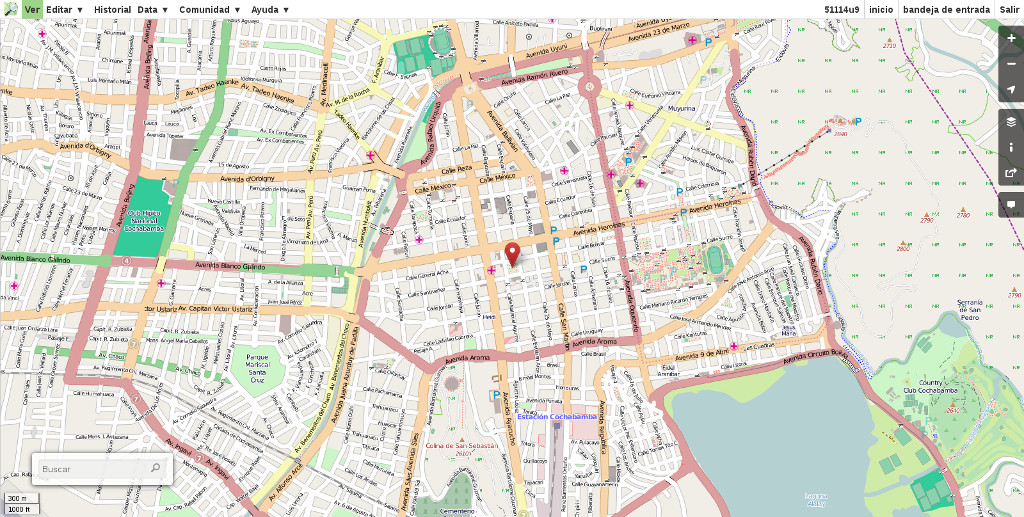
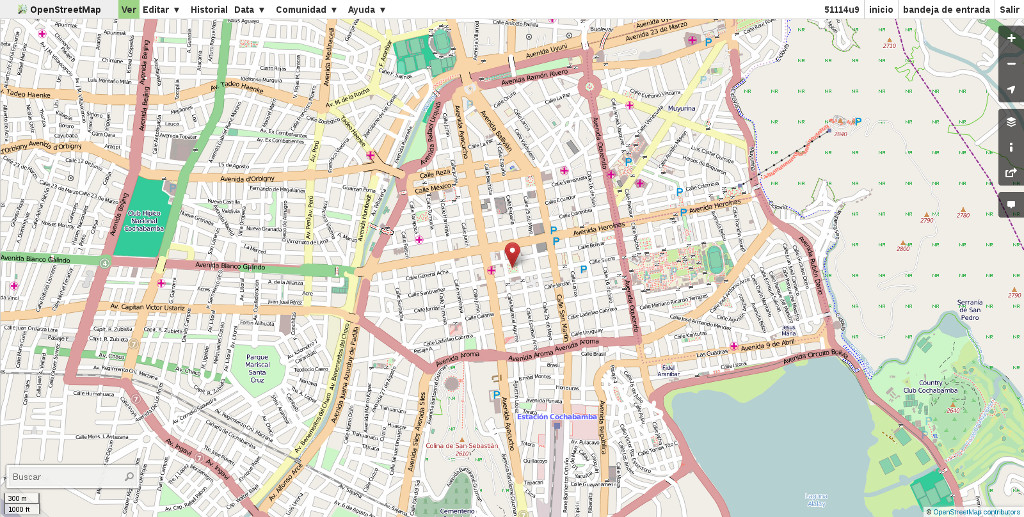
same top bar for all pages, comes back the underline on links, floating search panel only displayed on the homepage, and much more

diff --git a/17415.user.js b/17415.user.js
@@ -12,7 +12,7 @@
 // @include		https://openstreetmap.org/user*
 
 // @license		BSD License; http://www.opensource.org/licenses/bsd-license.php
-// @version		0.2.4
+// @version		0.2.5
 
 // ==/UserScript==
 
@@ -28,7 +28,6 @@ loadPrintCSS();
 
 // Execute
 findMenus();
-findAndFixLogo();
 findAndFixSearch();
 findAndFixData();
 findAndFixCommunity();
@@ -49,39 +48,45 @@ function addGlobalStyle(device, css) {
 
 function loadGlobalCSS() {
 	addGlobalStyle('screen',
-		'#searchbox { background: rgba(255,255,255,.8); position: absolute; bottom: 50px; left: 50px !important; width: auto; height: auto; margin: 0px !important; padding: 10px !important; border-radius: 4px; -webkit-border-radius: 4px; box-shadow: 0 1px 7px 0px rgba(0,0,0,0.8); -webkit-box-shadow: 0 1px 7px 0px rgba(0,0,0,0.8); z-index:9999; } ' +
+		'#small-title { background-color: #EEEEEE !important; border-bottom: 1px solid #CCCCCC !important; display: inline-block !important; font-size: 14px !important; height: 30px !important; margin: 0px !important; padding-top: 7px !important; position: fixed !important; text-align: center !important; top: 0 !important; width: 185px !important; z-index: 1 !important; } ' +
+		'#searchbox { background: rgba(255,255,255,.8); position: absolute; bottom: 45px !important; left: 10px !important; width: auto; height: auto; margin: 0px !important; padding: 3px 4px !important; position: fixed; border-radius: 2px !important; -webkit-border-radius: 2px !important; box-shadow: 0 0 3px 0 rgba(0,0,0,0.8) !important; -webkit-box-shadow: 0 0 3px 0 rgba(0,0,0,0.8) !important; z-index:9999; } ' +
 		'#search_form { width: 200px !important; } ' +
-		'#search_field input[type="submit"] { width: 20px !important; height: 20px !important; } ' +
-		'#search_field input[type="text"] { background: rgba(238,238,236,.8); border: 0 !important; border-radius: 4px; -webkit-border-radius: 4px; } ' +
+		'#search_field input[type="submit"] { margin-top: 2px !important; height: 20px !important; width: 15px !important; } ' +
+		'#search_field input[type="text"] { background: rgba(238,238,236,.8); border: 0 !important; border-radius: 2px !important; -webkit-border-radius: 2px !important; } ' +
 		'#search_field input[type="text"]:focus { outline: 0; box-shadow: 0 0 2px rgba(0,0,0,.8) inset; } ' +
 		'#query { width: 200px !important; height: 30px !important; } ' +
-		'#top-bar { background: rgba(255,255,255,.8); margin-left: 0px !important; } ' +
+		'#top-bar { background: rgba(255,255,255,.8); } ' +
+		'.changeset #top-bar, .browse #top-bar, .site-copyright #top-bar, .trace #top-bar, .diary_entry #top-bar, .user #top-bar, .notes #top-bar, .oauth_clients #top-bar, .message #top-bar { left: 0; position: fixed; right: 0; top: 0; } ' +
 		'#greeting { margin-right: 0px !important; padding-top: 0px !important; } ' +
 		'ul.secondary-actions li { margin: 0px !important; padding: 0px 2px !important; } ' +
-		'#greeting a, #greeting a:link, #greeting a:visited { color: #333 !important; float: left !important; font-weight: bold !important; margin-right: 0px !important; padding: 3px 5px !important; text-decoration: none !important; } ' +
-		'#greeting a:link:hover, #greeting a:visited:hover { color: #000 !important; text-decoration: none !important; } ' +
+		'#greeting a, #greeting a:link, #greeting a:visited { color: #333 !important; float: left !important; font-weight: bold !important; margin-right: 0px !important; padding: 3px 5px !important; } ' +
+		'#greeting a:link:hover, #greeting a:visited:hover { color: #000 !important; } ' +
 		'span.count-number { background: none repeat scroll 0 0 #CB4437 !important; color: #FFFFFF !important; } ' +
 		'#tabnav a, #tabnav a:link, #tabnav a:visited { color: #333 !important; margin-right: 0px !important; padding: 3px 5px !important; } ' +
-		'#tabnav a:link:hover, #tabnav a:visited:hover { color: #000 !important; text-decoration: none !important; } ' +
+		'#tabnav a:link:hover, #tabnav a:visited:hover { color: #000 !important; } ' +
 		'.menu li { border-top: none !important; padding: 0px !important; } ' +
 		'#editmenu { left: 87px !important; } ' +
 		'#editmenu a, #editmenu a:link, #editmenu a:visited,' +
 		'#datamenu a, #datamenu a:link, #datamenu a:visited,' +
 		'#communitymenu a, #communitymenu a:link, #communitymenu a:visited,' +
-		'#helpmenu a, #helpmenu a:link, #helpmenu a:visited { color: #333 !important; float: left !important; font-weight: bold !important; margin-right: 0px !important; padding: 3px 5px !important; text-decoration: none !important; } ' +
+		'#helpmenu a, #helpmenu a:link, #helpmenu a:visited { color: #333 !important; float: left !important; font-weight: bold !important; margin-right: 0px !important; padding: 3px 5px !important; } ' +
 		'#editmenu a:link:hover, #editmenu a:visited:hover,' +
 		'#datamenu a:link:hover, #datamenu a:visited:hover,' +
 		'#communitymenu a:link:hover, #communitymenu a:visited:hover,' +
-		'#helpmenu a:link:hover, #helpmenu a:visited:hover { color: #000 !important; text-decoration: none !important; } ' +
-		'.wrapper { margin-left: 0px !important; padding: 0 150px !important; } ' +
+		'#helpmenu a:link:hover, #helpmenu a:visited:hover { color: #000 !important; } ' +
+		'.wrapper { margin: 30px 0 0 !important; } ' +
 		'#content { left: 0px !important; } ' +
+		'#changeset_list_map_wrapper.scrolled { top: 20px !important; } ' +
+		'#changeset_list_map_wrapper.scrolled #changeset_list_map { margin-left: 0px !important; } ' +
+		'.sidebar_heading { z-index: 1 !important; } ' +
 		'.diary_post { max-width: 100% !important; } ' +
+		'#diary_entry_title { width: 50% !important; } ' +
 		'#message_title { width: 50% !important; }'
 	 );
 }
 
 function loadPrintCSS() {
-    addGlobalStyle('print', '#searchbox { display: none !important; }');
+	addGlobalStyle('print', '#searchbox { display: none !important; }');
 }
 
 function findMenus() {
@@ -93,23 +98,6 @@ function findMenus() {
 
 	elmTabNav = document.getElementById('tabnav');
 	if (!elmTabNav) { return; }
-}
-
-function findAndFixLogo() {
-	var elmSmallTitle = document.getElementById('small-title');
-	if (!elmSmallTitle) { return; }
-
-	var elmA = elmSmallTitle.firstElementChild;
-	elmA.title = 'OpenStreetMap';
-
-	var elmImg = elmA.firstElementChild;
-	elmImg.width = '24';
-	elmImg.height = '24';
-
-	var elmLi = document.createElement('li');
-	elmLi.appendChild(elmA);
-
-	elmTabNav.firstElementChild.parentNode.insertBefore(elmLi, elmTabNav.firstElementChild);
 }
 
 function findAndFixSearch() {
@@ -133,9 +121,7 @@ function findAndFixData() {
 	var elmDataMenuContent3 = elmLeftMenu.children[2].children[3];
 
 	var elmDataAnchor = document.createElement('li');
-	elmDataAnchor.innerHTML = '<a id="dataanchor" title="' + elmData + '" href="#">' +
-		elmData + '<span class="menuicon">▼</span>' +
-		'</a>';
+	elmDataAnchor.innerHTML = '<a id="dataanchor" title="' + elmData + '" href="#">' + elmData + '<span class="menuicon">▼</span></a>';
 
 	elmTabNav.appendChild(elmDataAnchor);
 
@@ -163,9 +149,7 @@ function findAndFixCommunity() {
 	var elmCommunityMenuContent = elmLeftMenu.children[1].lastElementChild;
 
 	var elmCommunityAnchor = document.createElement('li');
-	elmCommunityAnchor.innerHTML = '<a id="communityanchor" title="' + elmCommunity + '" href="#">' +
-		elmCommunity + '<span class="menuicon">▼</span>' +
-		'</a>';
+	elmCommunityAnchor.innerHTML = '<a id="communityanchor" title="' + elmCommunity + '" href="#">' + elmCommunity + '<span class="menuicon">▼</span></a>';
 
 	elmTabNav.appendChild(elmCommunityAnchor);
 
@@ -191,9 +175,7 @@ function findAndFixHelp() {
 	var elmHelpMenuContent = elmLeftMenu.children[0].lastElementChild;
 
 	var elmHelpAnchor = document.createElement('li');
-	elmHelpAnchor.innerHTML = '<a id="helpanchor" title="' + elmHelp + '" href="#">' +
-		elmHelp + '<span class="menuicon">▼</span>' +
-		'</a>';
+	elmHelpAnchor.innerHTML = '<a id="helpanchor" title="' + elmHelp + '" href="#">' + elmHelp + '<span class="menuicon">▼</span></a>';
 
 	elmTabNav.appendChild(elmHelpAnchor);
 
@@ -215,6 +197,6 @@ function findAndFixHelp() {
 }
 
 function removeLeftMenu() {
-	if (elmSearchBox && (elmSearchBox.firstElementChild.nodeName != 'H4')) { elmLeft.parentNode.replaceChild(elmSearchBox, elmLeft); }
+	if (elmSearchBox && (getComputedStyle(elmLeft, '').display != 'none') && (elmSearchBox.firstElementChild.nodeName != 'H4')) { elmLeft.parentNode.replaceChild(elmSearchBox, elmLeft); }
 	else { elmLeft.parentNode.removeChild(elmLeft); }
 }

diff --git a/README.md b/README.md
@@ -23,7 +23,6 @@ Remove unnecessary elements and modernize UI on OpenStreetMap.
 ## ToDo
 
 * Display trace labels as part of the page
-* Hide the search box on the edit page
 
 Enjoy!
 
